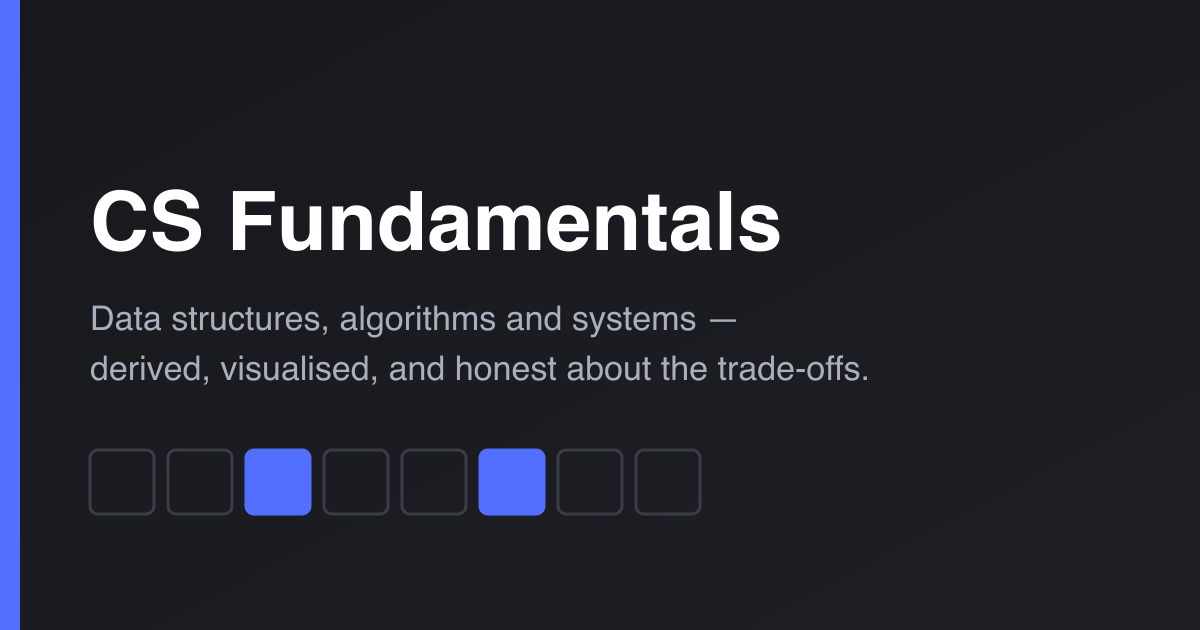
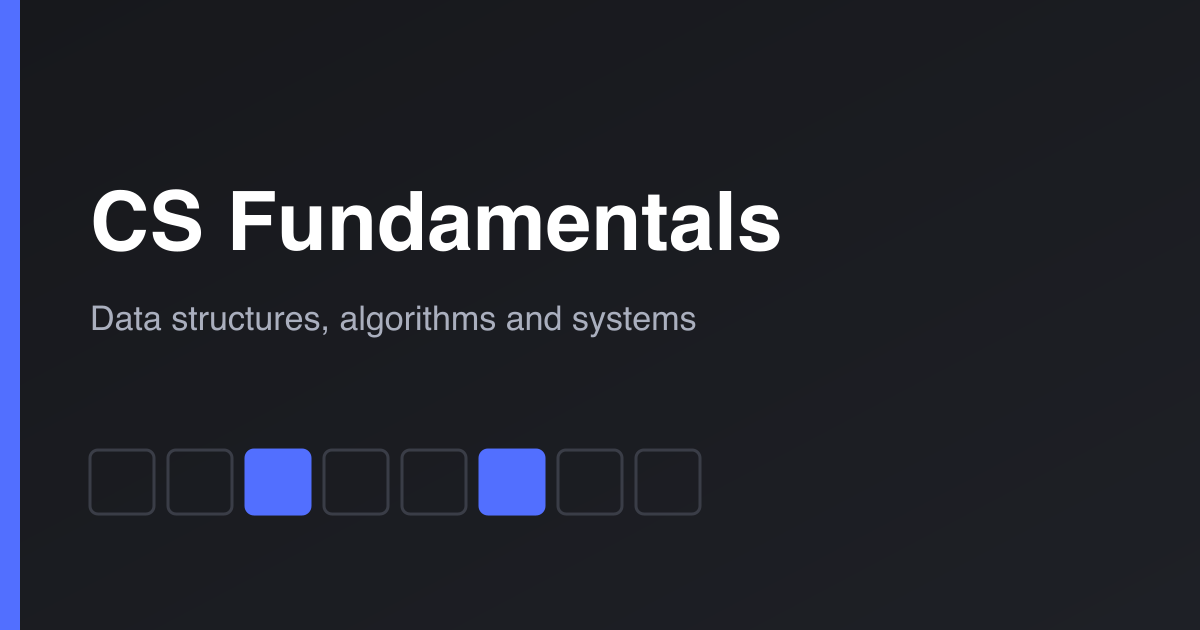
Merge pull request #13 from danielsousaoliveira/danielsousaoliveira-dan-42-the-repository-is-findable-through-search-and-topics

Changed region(s): [[0.0617, 0.573, 0.74, 0.6032], [0.5858, 0.4825, 0.6167, 0.5127]]

diff --git a/scripts/make-og-image.ts b/scripts/make-og-image.ts
@@ -50,9 +50,7 @@ const svg = `
         font-weight="700" fill="${COLORS.text}">CS Fundamentals</text>
 
   <text x="90" y="330" font-family="Helvetica, Arial, sans-serif" font-size="34"
-        fill="${COLORS.dim}">Data structures, algorithms and systems —</text>
-  <text x="90" y="380" font-family="Helvetica, Arial, sans-serif" font-size="34"
-        fill="${COLORS.dim}">derived, visualised, and honest about the trade-offs.</text>
+        fill="${COLORS.dim}">Data structures, algorithms and systems</text>
 
   <!-- A row of array cells: the site's own visual vocabulary, in miniature. -->
   ${[0, 1, 2, 3, 4, 5, 6, 7]

diff --git a/docs/repo-settings.md b/docs/repo-settings.md
@@ -1,0 +1,58 @@
+# Repository settings
+
+GitHub repository settings live outside the codebase. This file is the record of
+what is applied in the hosting interface so the state is not undocumented.
+
+Re-apply after any change here. The description and topics can be set with the
+`gh` CLI; the social preview image is upload-only through the web UI.
+
+## Description
+
+> An in-depth, visual intro to CS: every complexity bound derived on the page, every structure shown running, and every failure mode and when-NOT-to-use-it named — the parts most treatments skip. 130+ pages across data structures, systems, databases, data and AI engineering.
+
+```sh
+gh repo edit danielsousaoliveira/cs-fundamentals \
+  --description "An in-depth, visual intro to CS: every complexity bound derived on the page, every structure shown running, and every failure mode and when-NOT-to-use-it named — the parts most treatments skip. 130+ pages across data structures, systems, databases, data and AI engineering." \
+  --homepage "https://danielsousaoliveira.github.io/cs-fundamentals/"
+```
+
+## Homepage
+
+`https://danielsousaoliveira.github.io/cs-fundamentals/`
+
+## Topics
+
+Each topic maps to material the site treats in depth, not everything it mentions.
+
+`computer-science`, `data-structures`, `algorithms`, `system-design`,
+`distributed-systems`, `databases`, `sql`, `query-optimization`,
+`vector-database`, `data-engineering`, `cloud-infrastructure`, `kubernetes`,
+`ai-engineering`, `rag`, `llm`, `web-development`, `software-architecture`,
+`production-engineering`, `incident-response`, `learning-resources`
+
+Replaces the full topic set rather than adding to whatever is already there, so
+rerunning it after editing the list above always matches the document:
+
+```sh
+gh api repos/danielsousaoliveira/cs-fundamentals/topics \
+  --method PUT \
+  --field 'names[]=computer-science' --field 'names[]=data-structures' \
+  --field 'names[]=algorithms' --field 'names[]=system-design' \
+  --field 'names[]=distributed-systems' --field 'names[]=databases' \
+  --field 'names[]=sql' --field 'names[]=query-optimization' \
+  --field 'names[]=vector-database' --field 'names[]=data-engineering' \
+  --field 'names[]=cloud-infrastructure' --field 'names[]=kubernetes' \
+  --field 'names[]=ai-engineering' --field 'names[]=rag' \
+  --field 'names[]=llm' --field 'names[]=web-development' \
+  --field 'names[]=software-architecture' --field 'names[]=production-engineering' \
+  --field 'names[]=incident-response' --field 'names[]=learning-resources'
+```
+
+## Social preview image
+
+Set the social preview to `public/og.png` (1200×630, within GitHub's accepted
+range). Regenerate it with `pnpm og:image` after changing its design — never
+edit the PNG by hand. This is the same image the site serves as its Open Graph
+card via `src/components/overrides/Head.astro`.
+
+Upload path: repository **Settings → General → Social preview → Upload an image**.
